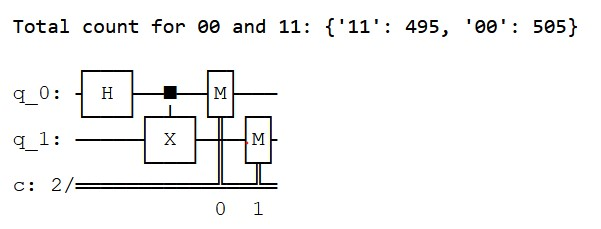
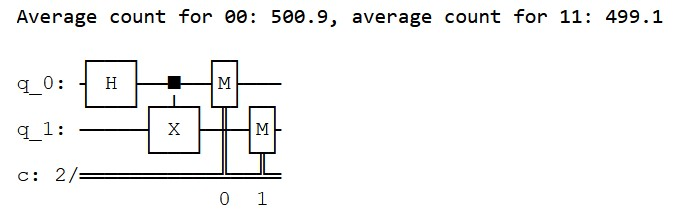
circuit now runs multiple times, shows average of run. Notice that it's closer to 500!

diff --git a/QiskitCircuitIntro.py b/QiskitCircuitIntro.py
@@ -19,13 +19,18 @@ circuit.measure([0,1],[0,1])
 #compile the circuit
 compiled_circuit=transpile(circuit, simulator)
 
-#exicute the circuit
-job = simulator.run(compiled_circuit, shots=1000)
-result = job.result()
+#exicute the circuit 10 times
+sum00 = 0
+sum11 = 0
+for i in range (10):
+    job = simulator.run(compiled_circuit, shots=1000)
+    result = job.result()
+    sum00+=result.get_counts(compiled_circuit)['00']
+    sum11+=result.get_counts(compiled_circuit)['11']
+
 
 #counts from the circuit
-counts = result.get_counts(compiled_circuit)
-print("\nTotal count for 00 and 11:",counts)
+print("\Average count for 00: " + str(sum00/10) + ", average count for 11: " + str(sum11/10))
 
-#circuit diagram!
+#art!
 circuit.draw()
